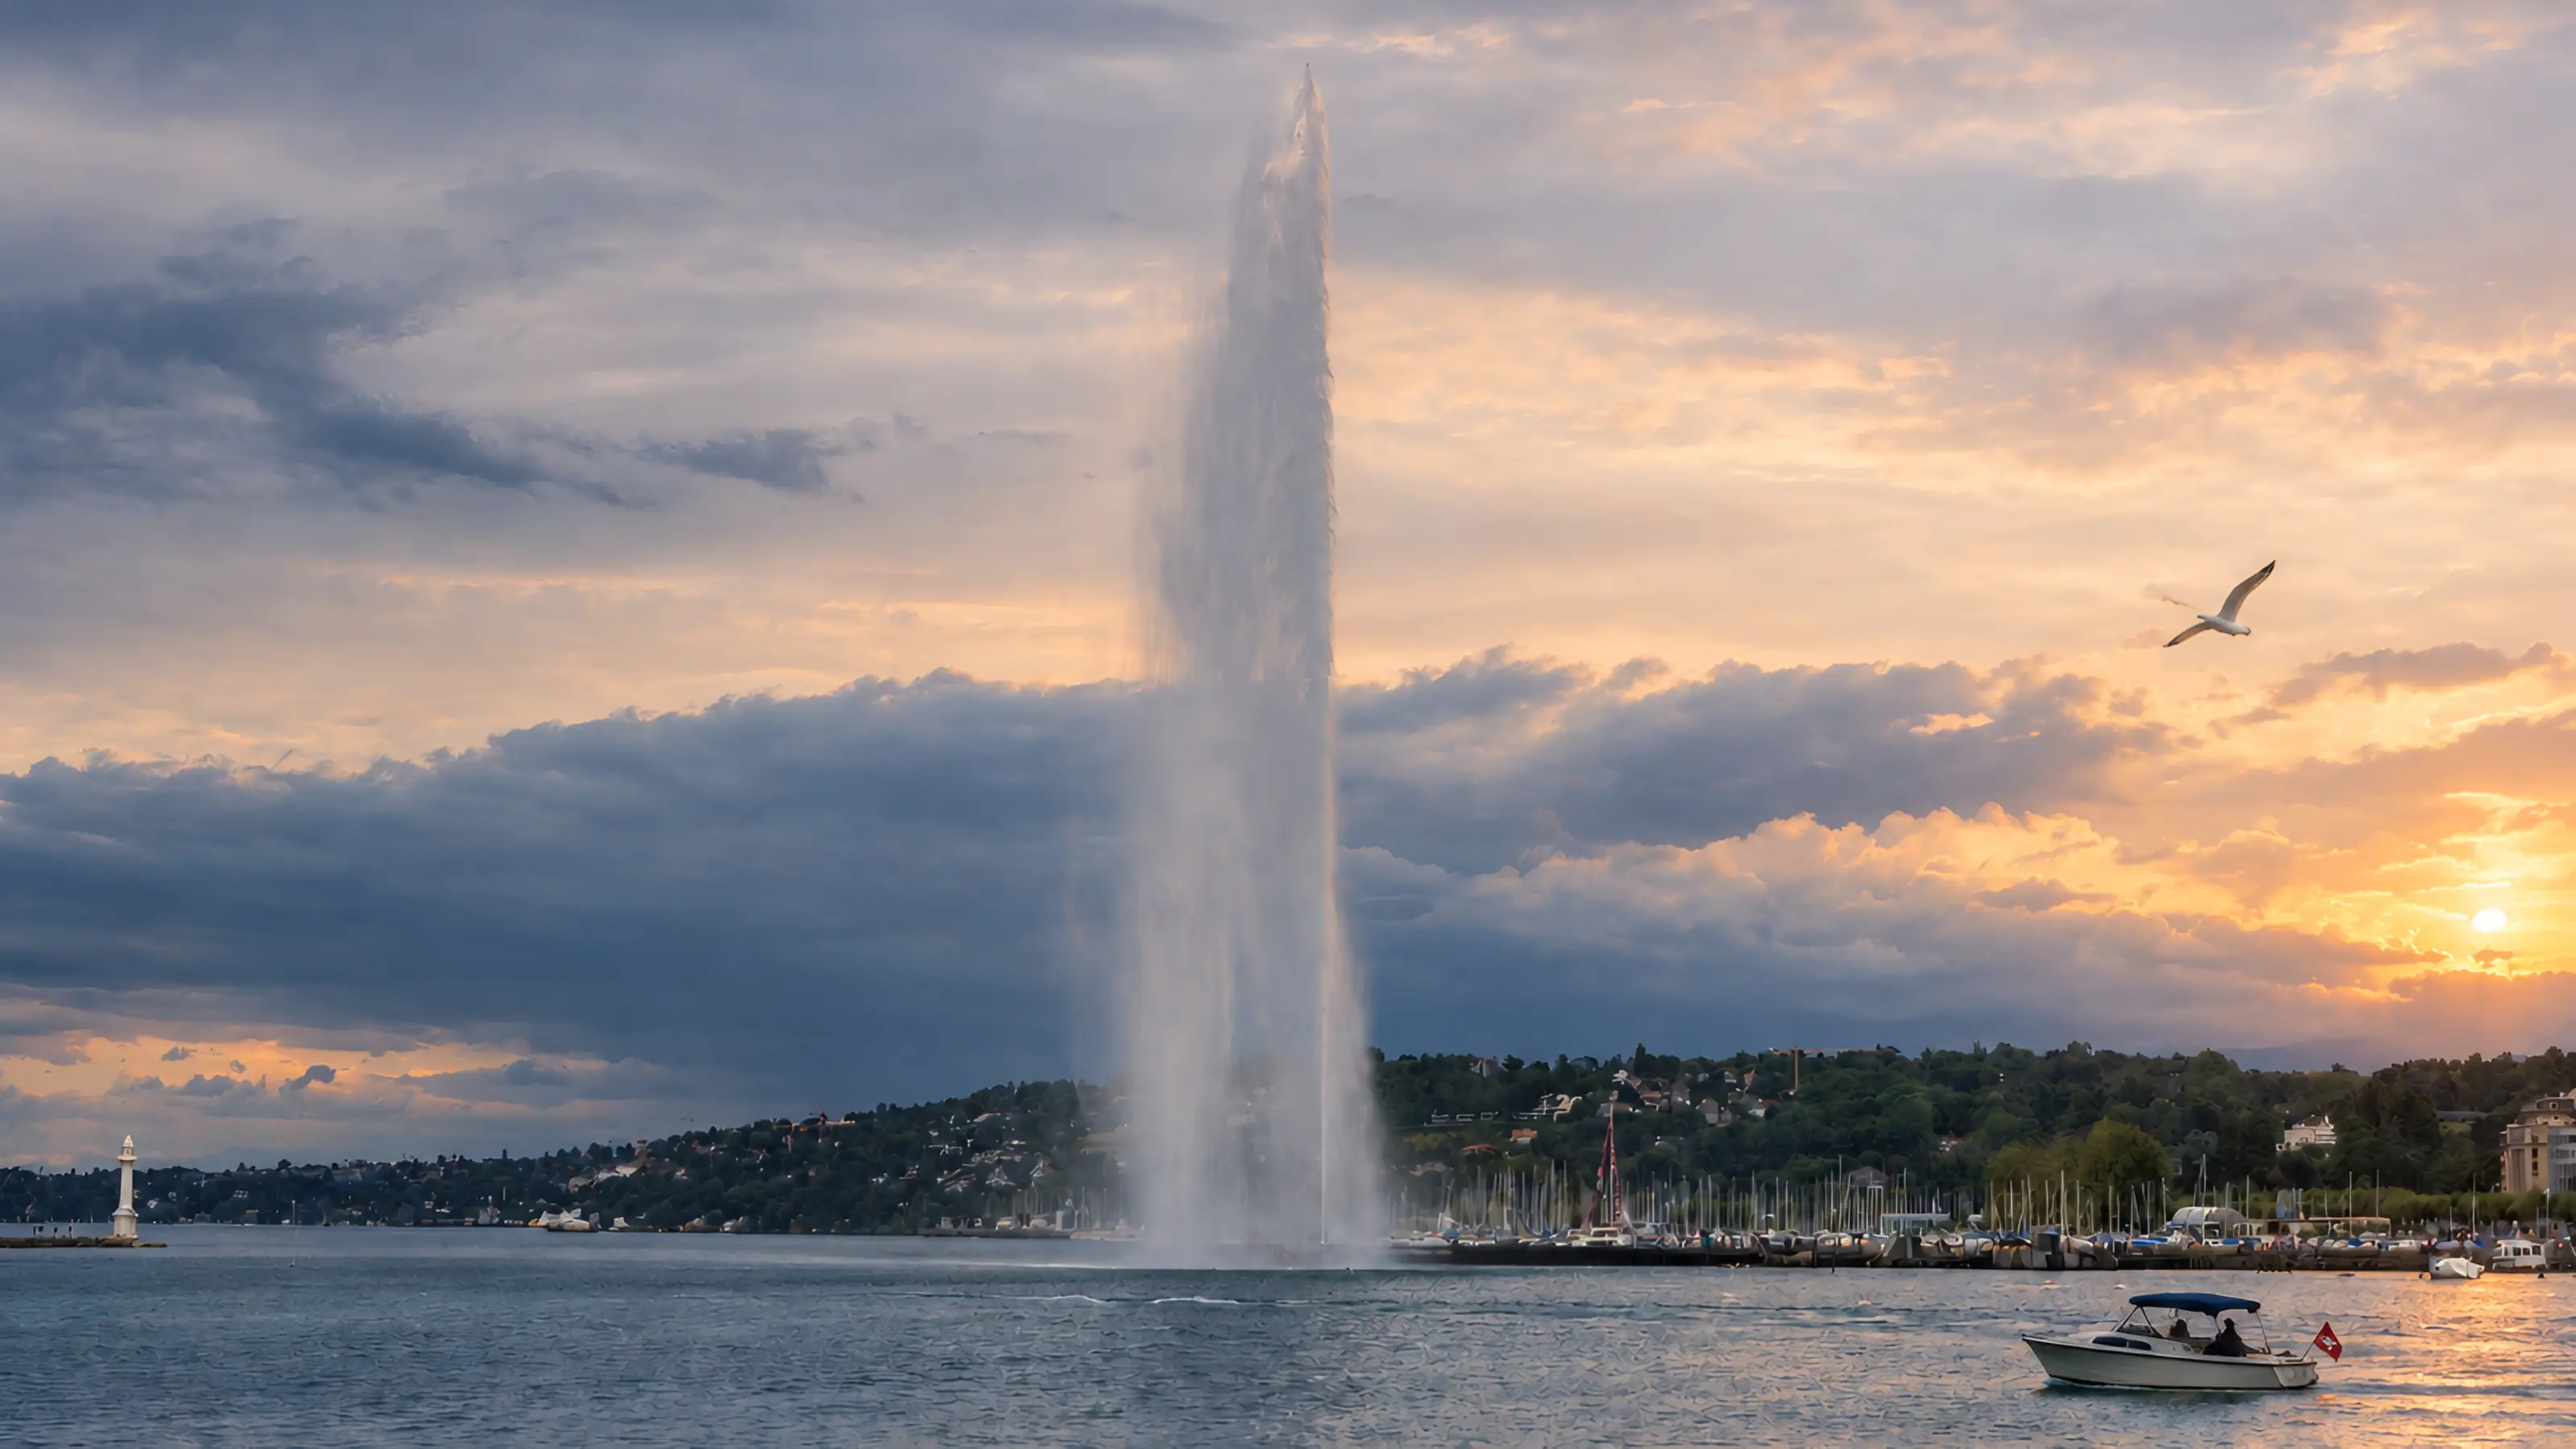
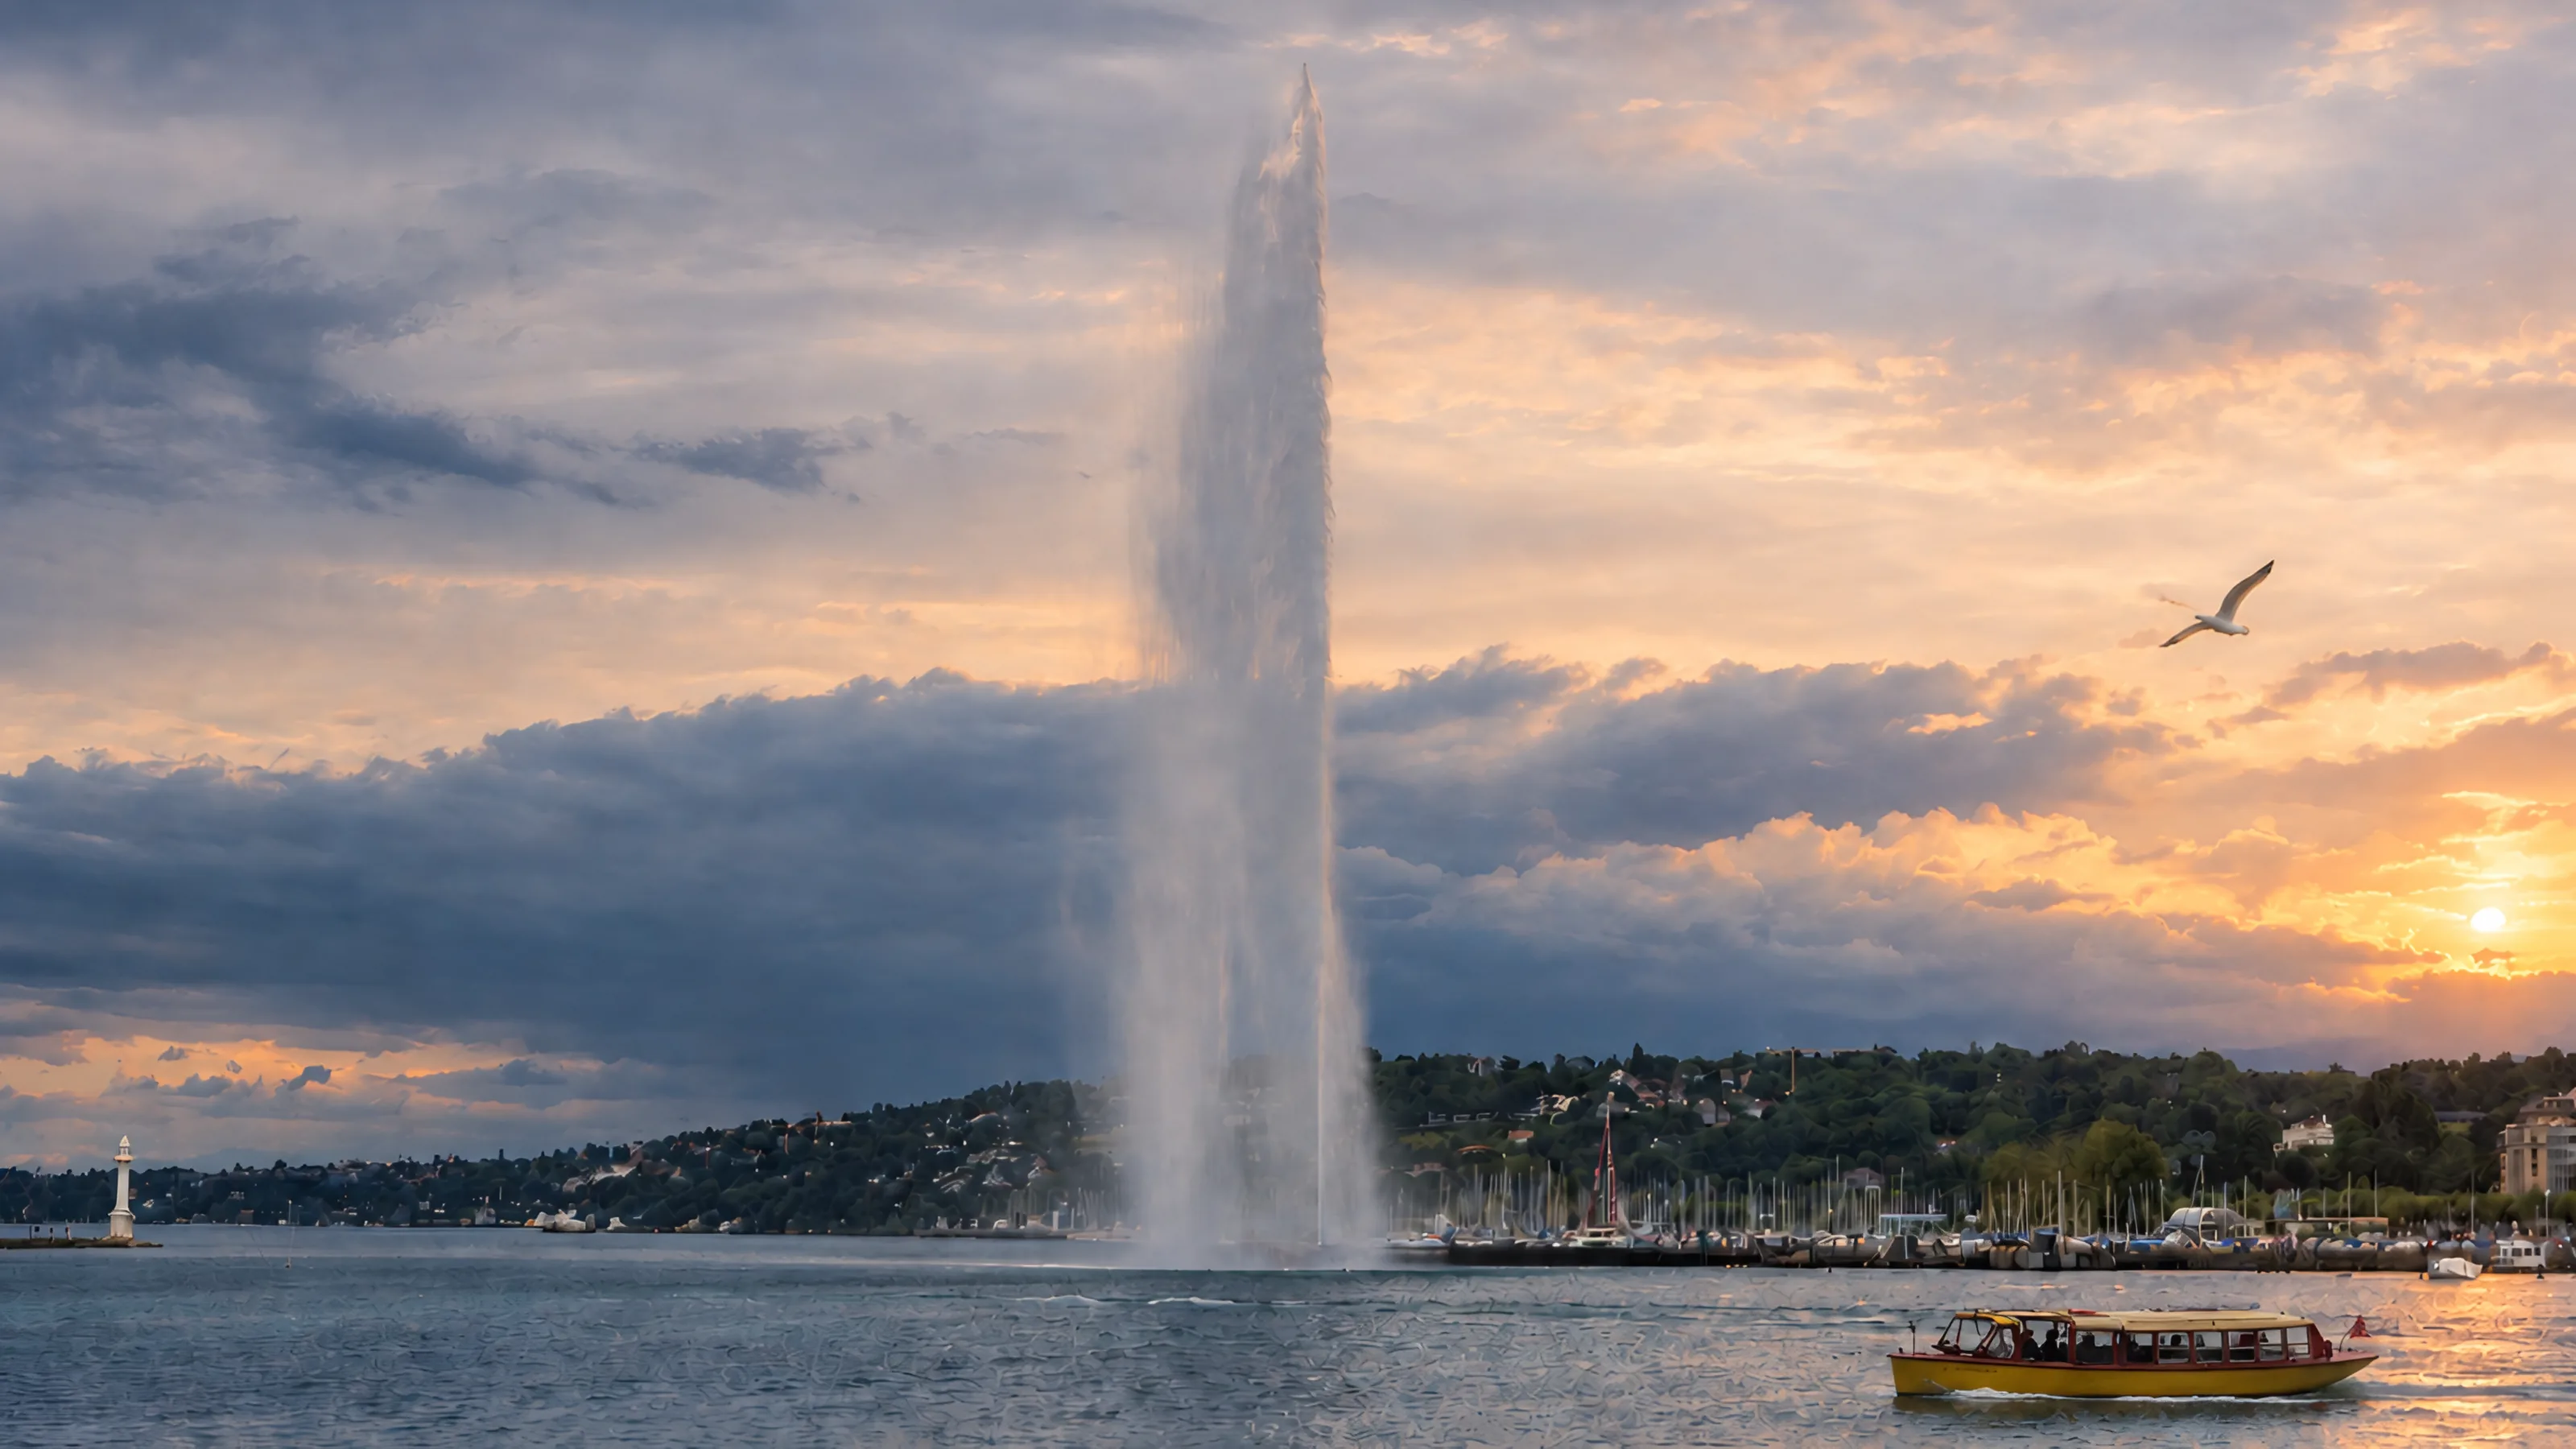
Photo d'accueil : version avec bateau Mouette, en haute qualité (jusqu'à 3840 px)
Claude-Session: https://claude.ai/code/session_01QZan2kUspiSA3QS6UPtvcC

diff --git a/accueil.html b/accueil.html
@@ -673,7 +673,7 @@ body.menu-open .haut{opacity:0;pointer-events:none}
 <!-- HERO -->
 <section class="hero on-dark" aria-labelledby="hero-title">
   <div class="hero-media">
-    <img src="images/geneve-jet-deau.webp" srcset="images/geneve-jet-deau.webp 1600w, images/geneve-jet-deau-3200.webp 3200w" sizes="100vw" alt="Le Jet d'eau de Genève au coucher du soleil, nuages dorés au-dessus du lac et des quais" width="1600" height="900" fetchpriority="high">
+    <img src="images/geneve-jet-deau.webp" srcset="images/geneve-jet-deau.webp 1600w, images/geneve-jet-deau-3200.webp 3200w, images/geneve-jet-deau-3840.webp 3840w" sizes="100vw" alt="Le Jet d'eau de Genève au coucher du soleil, nuages dorés au-dessus du lac et des quais" width="1600" height="900" fetchpriority="high">
   </div>
   <div class="hero-shade"></div>
   <div class="wrap hero-inner">
@@ -1058,7 +1058,7 @@ body.menu-open .haut{opacity:0;pointer-events:none}
 <!-- 09 CONTACT -->
 <section id="contact" class="section contact on-dark" aria-labelledby="t-contact">
   <div class="contact-media" aria-hidden="true">
-    <img src="images/geneve-jet-deau.webp" srcset="images/geneve-jet-deau.webp 1600w, images/geneve-jet-deau-3200.webp 3200w" sizes="100vw" alt="" width="1600" height="900" loading="lazy">
+    <img src="images/geneve-jet-deau.webp" srcset="images/geneve-jet-deau.webp 1600w, images/geneve-jet-deau-3200.webp 3200w, images/geneve-jet-deau-3840.webp 3840w" sizes="100vw" alt="" width="1600" height="900" loading="lazy">
   </div>
   <div class="wrap">
     <p class="marker reveal"><b>09</b><span>Contact</span></p>

diff --git a/404.html b/404.html
@@ -52,7 +52,7 @@
 </head>
 <body>
 <div class="page">
-  <img class="bg" src="/images/geneve-jet-deau.webp" srcset="/images/geneve-jet-deau.webp 1600w, /images/geneve-jet-deau-3200.webp 3200w" sizes="100vw" alt="">
+  <img class="bg" src="/images/geneve-jet-deau.webp" srcset="/images/geneve-jet-deau.webp 1600w, /images/geneve-jet-deau-3200.webp 3200w, /images/geneve-jet-deau-3840.webp 3840w" sizes="100vw" alt="">
   <div class="shade"></div>
   <div class="inner">
     <a class="brand" href="/">

diff --git a/index.html b/index.html
@@ -67,7 +67,7 @@
 </head>
 <body>
 <div class="page">
-  <img class="bg" src="images/geneve-jet-deau.webp" srcset="images/geneve-jet-deau.webp 1600w, images/geneve-jet-deau-3200.webp 3200w" sizes="100vw" alt="">
+  <img class="bg" src="images/geneve-jet-deau.webp" srcset="images/geneve-jet-deau.webp 1600w, images/geneve-jet-deau-3200.webp 3200w, images/geneve-jet-deau-3840.webp 3840w" sizes="100vw" alt="">
   <div class="shade"></div>
   <div class="inner">
     <div class="brand">
